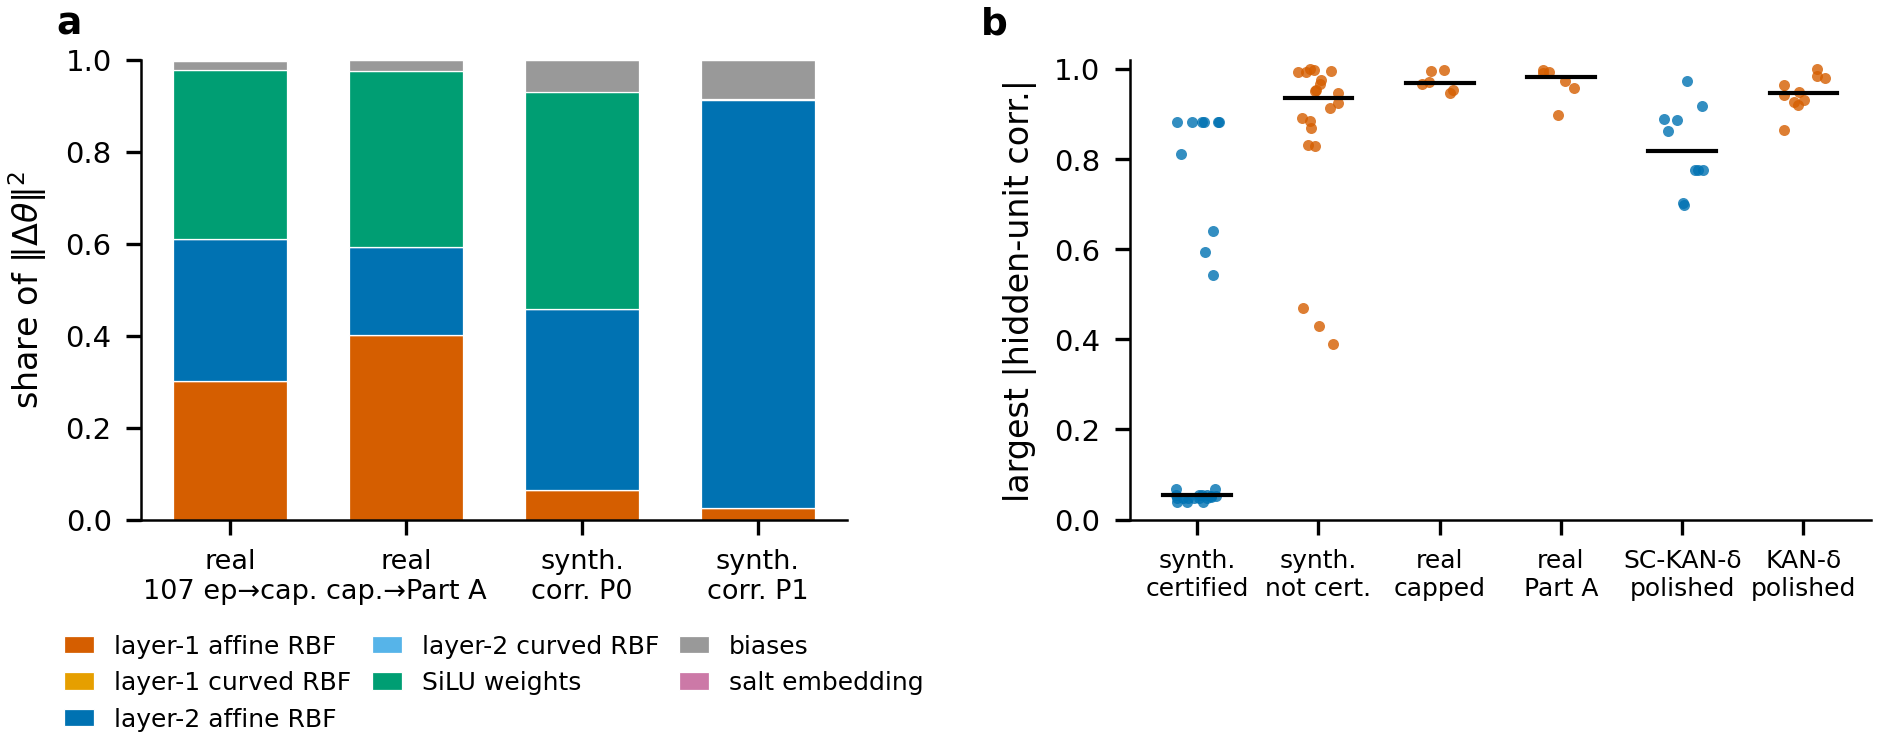
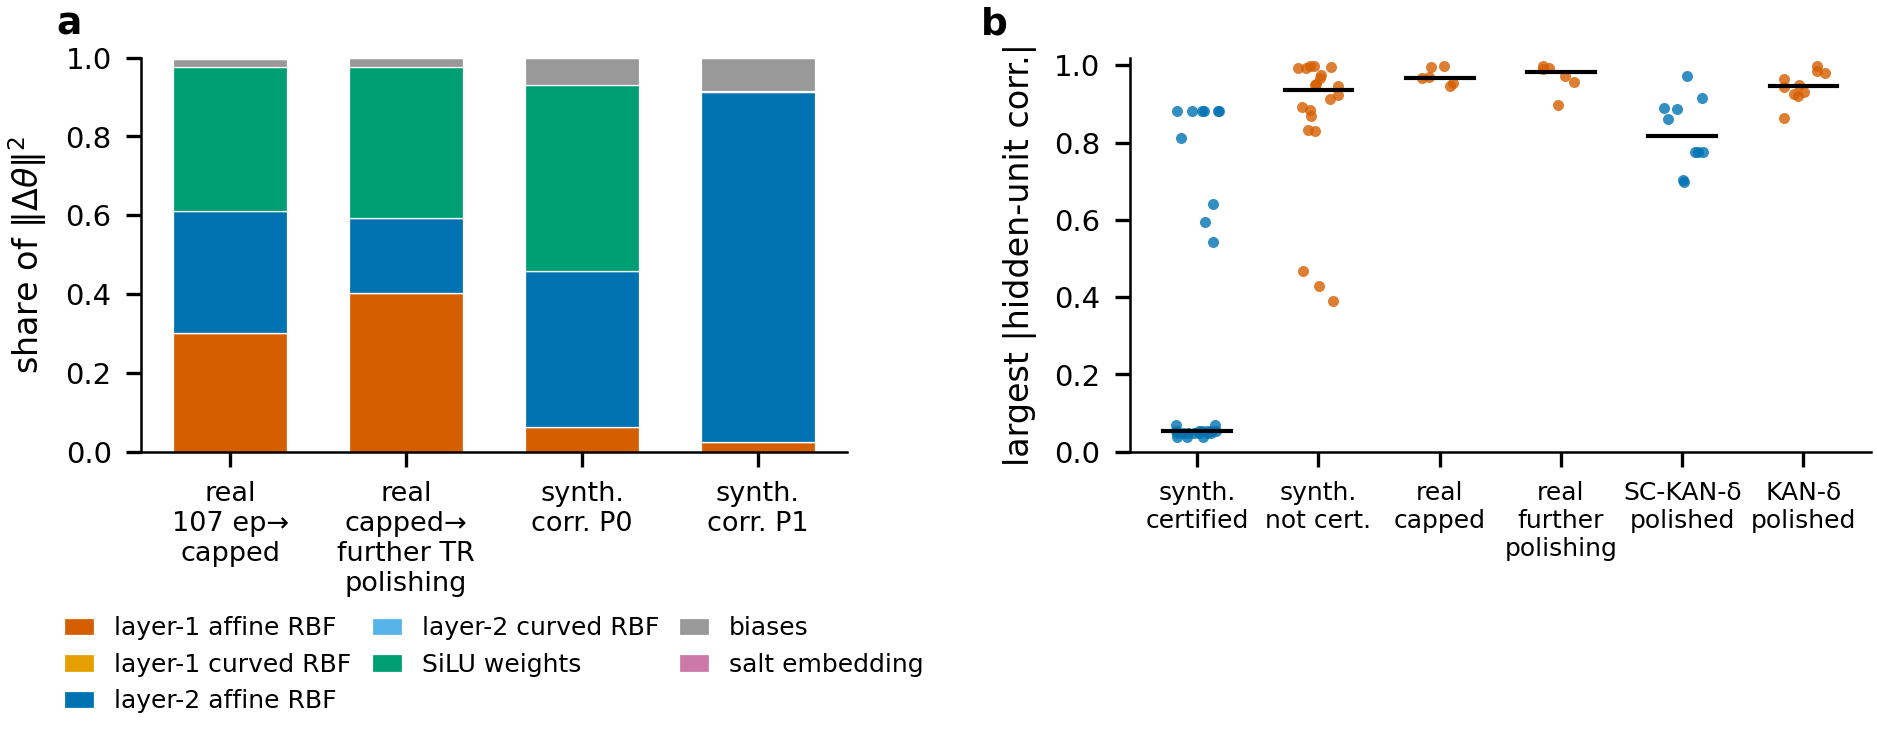
paper2/figures: Figure 4 tick labels 'further trust-region polishing' instead of 'Part A' (display only; sidecar values unchanged)

diff --git a/paper2/figures/make_fig4.py b/paper2/figures/make_fig4.py
@@ -72,19 +72,20 @@ sc.note("a, synthetic: anatomy_synth_results.json (ea22a56) per-model shares, co
 
 groups = {"real\n107 ep→cap.": real["107 epochs → capped"], "real\ncap.→Part A": real["capped → Part A"],
           "synth.\ncorr. P0": syn["synthetic correlated P0\n(early → polished)"], "synth.\ncorr. P1": syn["synthetic correlated P1\n(early → polished)"]}
-fig, axs = plt.subplots(1, 2, figsize=(FULL, 2.9), gridspec_kw=dict(width_ratios=[1, 1.05]))
+fig, axs = plt.subplots(1, 2, figsize=(FULL, 3.1), gridspec_kw=dict(width_ratios=[1, 1.05]))
 ax = axs[0]
 x = np.arange(len(groups)); bottom = np.zeros(len(groups))
 mean = {g: {b: float(np.mean([r[b] for r in rr])) for b in BLOCKS} for g, rr in groups.items()}
 for b in BLOCKS:
     v = np.array([mean[g][b] for g in groups])
     ax.bar(x, v, 0.65, bottom=bottom, color=BLOCK_C[b], label=b, edgecolor="white", lw=0.3); bottom += v
-ax.set_xticks(x); ax.set_xticklabels(list(groups), fontsize=6.5); ax.set_ylabel(r"share of $\|\Delta\theta\|^2$"); ax.set_ylim(0, 1)
-ax.legend(frameon=False, fontsize=6, loc="upper center", bbox_to_anchor=(0.5, -0.2), ncol=3, columnspacing=0.8, handlelength=1.2)
+TICK = {"real\n107 ep→cap.": "real\n107 ep→\ncapped", "real\ncap.→Part A": "real\ncapped→\nfurther TR\npolishing"}  # display only; sidecar keys unchanged
+ax.set_xticks(x); ax.set_xticklabels([TICK.get(g, g) for g in groups], fontsize=6.5); ax.set_ylabel(r"share of $\|\Delta\theta\|^2$"); ax.set_ylim(0, 1)
+ax.legend(frameon=False, fontsize=6, loc="upper center", bbox_to_anchor=(0.5, -0.36), ncol=3, columnspacing=0.8, handlelength=1.2)
 letter(ax, "a", dx=-0.12)
 sc.put("a_mean_shares", mean)
 sc.put("a_per_model", {g: rr for g, rr in groups.items()})
-sc.note("a: real = mean over 6 seeds; real 107 ep -> capped and capped -> Part A are the two unregularised segments")
+sc.note("a: real = mean over 6 seeds; real 107 ep -> capped and capped -> Part A (shown as further trust-region (TR) polishing) are the two unregularised segments")
 
 # ---- b) largest hidden-unit correlation (paper2/checks)
 ck = sc.json("paper2/checks/checks_results.json")["item1"]["rows"]
@@ -100,7 +101,8 @@ for j, (lab, rr, kind) in enumerate(cats):
     y = np.array([r["max"] for r in rr]); vals[lab.replace("\n", " ")] = dict(values=y.tolist(), median=float(np.median(y)), n=len(y), kind=kind)
     ax.scatter(j + np.random.default_rng(j).uniform(-0.18, 0.18, len(y)), y, s=7, color=C[kind], alpha=0.8, lw=0)
     ax.plot([j - 0.28, j + 0.28], [np.median(y)] * 2, color=OI["black"], lw=1)
-ax.set_xticks(range(len(cats))); ax.set_xticklabels([c[0] for c in cats], fontsize=6)
+TICKB = {"real\nPart A": "real\nfurther\npolishing"}  # display only; sidecar keys unchanged
+ax.set_xticks(range(len(cats))); ax.set_xticklabels([TICKB.get(c[0], c[0]) for c in cats], fontsize=6)
 ax.set_ylabel("largest |hidden-unit corr.|"); ax.set_ylim(0, 1.02)
 letter(ax, "b", dx=-0.2)
 sc.put("b_max_hidden_corr", vals)
